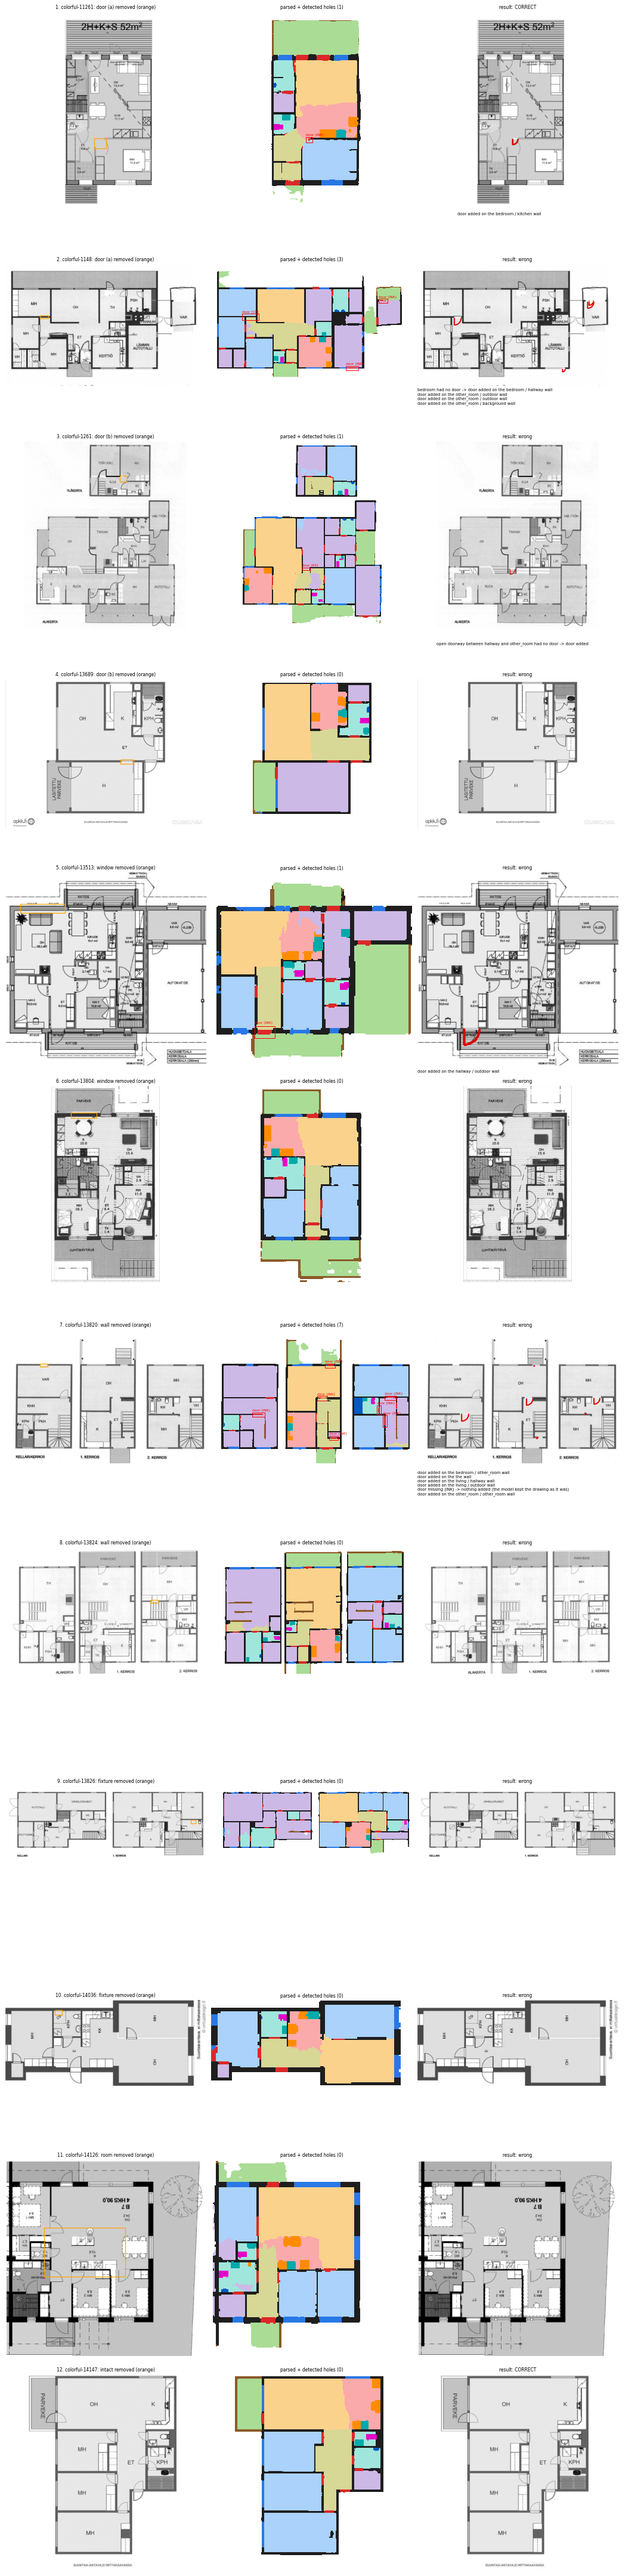
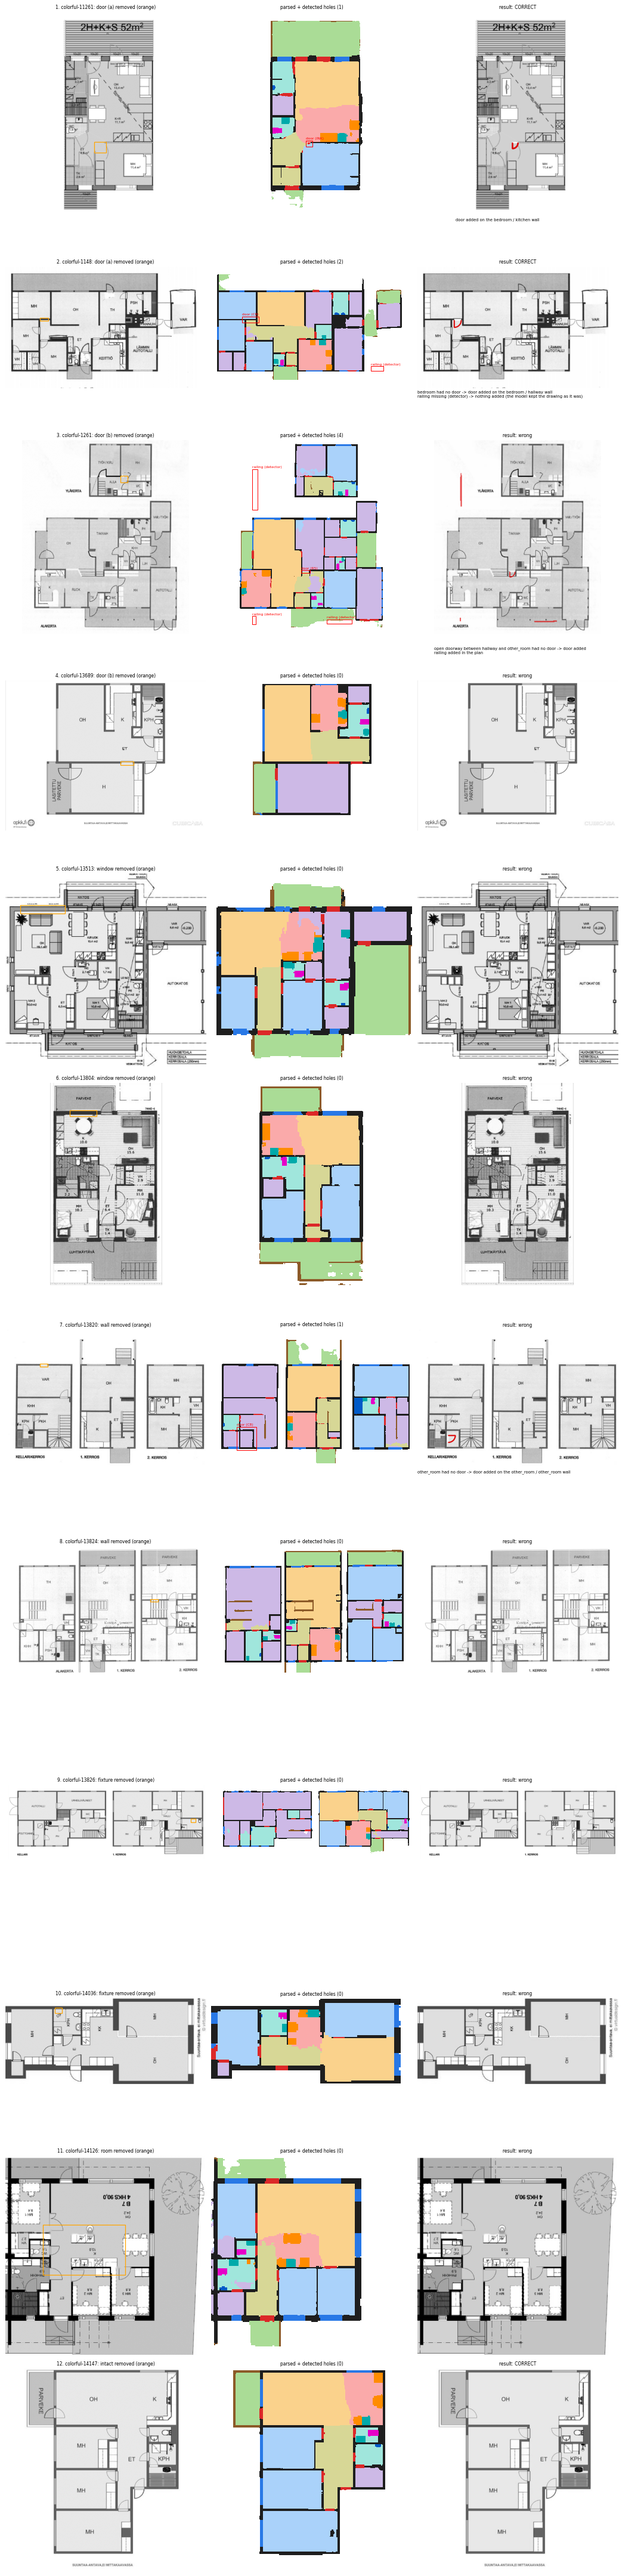
Budget 0.6 CHECK: held-out 15% recall at 0.64 FA, trade-off curve, check set 3/12

diff --git a/outputs/stage2/check_set.md b/outputs/stage2/check_set.md
@@ -1,18 +1,18 @@
-# Check set: 2 / 12 correct (fast mode, CPU)
+# Check set: 3 / 12 correct (fast mode, CPU)
 
 found = a hole overlaps the omission; restored = the expected class was added there; extra = added components elsewhere; correct = restored and no extra (intact: nothing added).
 
 | # | drawing | omission | found | restored | extra | correct | holes | s |
 |---|---|---|---|---|---|---|---|---|
-| 1 | colorful-11261 | door (a) | yes | yes | 0 | **yes** | 1 | 28 |
-| 2 | colorful-1148 | door (a) | yes | yes | 3 | no | 3 | 60 |
-| 3 | colorful-1261 | door (b) | no | no | 1 | no | 1 | 24 |
+| 1 | colorful-11261 | door (a) | yes | yes | 0 | **yes** | 1 | 40 |
+| 2 | colorful-1148 | door (a) | yes | yes | 0 | **yes** | 2 | 61 |
+| 3 | colorful-1261 | door (b) | no | no | 4 | no | 4 | 123 |
 | 4 | colorful-13689 | door (b) | no | no | 0 | no | 0 | 2 |
-| 5 | colorful-13513 | window | no | no | 1 | no | 1 | 19 |
-| 6 | colorful-13804 | window | no | no | 0 | no | 0 | 1 |
-| 7 | colorful-13820 | wall | no | no | 6 | no | 7 | 132 |
-| 8 | colorful-13824 | wall | no | no | 0 | no | 0 | 3 |
-| 9 | colorful-13826 | fixture | no | no | 0 | no | 0 | 4 |
+| 5 | colorful-13513 | window | no | no | 0 | no | 0 | 1 |
+| 6 | colorful-13804 | window | no | no | 0 | no | 0 | 2 |
+| 7 | colorful-13820 | wall | no | no | 1 | no | 1 | 32 |
+| 8 | colorful-13824 | wall | no | no | 0 | no | 0 | 5 |
+| 9 | colorful-13826 | fixture | no | no | 0 | no | 0 | 6 |
 | 10 | colorful-14036 | fixture | no | no | 0 | no | 0 | 1 |
 | 11 | colorful-14126 | room | no | no | 0 | no | 0 | 1 |
 | 12 | colorful-14147 | intact | no | no | 0 | **yes** | 0 | 2 |
@@ -25,24 +25,23 @@ Added (messages):
 
 - door added on the bedroom / kitchen wall
 
-## 2. colorful-1148 (door (a)): automatic verdict wrong
+## 2. colorful-1148 (door (a)): automatic verdict correct
 
-Removed: door (a). Detected: door (C8), door (INK), door (INK). Found yes, restored yes, extra 3.
+Removed: door (a). Detected: door (C8), railing (detector). Found yes, restored yes, extra 0.
 
 Added (messages):
 
 - bedroom had no door -> door added on the bedroom / hallway wall
-- door added on the other_room / outdoor wall
-- door added on the other_room / outdoor wall
-- door added on the other_room / background wall
+- railing missing (detector) -> nothing added (the model kept the drawing as it was)
 
 ## 3. colorful-1261 (door (b)): automatic verdict wrong
 
-Removed: door (b). Detected: door (R5). Found no, restored no, extra 1.
+Removed: door (b). Detected: door (R5), railing (detector), railing (detector), railing (detector). Found no, restored no, extra 4.
 
 Added (messages):
 
 - open doorway between hallway and other_room had no door -> door added
+- railing added in the plan
 
 ## 4. colorful-13689 (door (b)): automatic verdict wrong
 
@@ -54,11 +53,11 @@ Added (messages):
 
 ## 5. colorful-13513 (window): automatic verdict wrong
 
-Removed: window. Detected: door (INK). Found no, restored no, extra 1.
+Removed: window. Detected: nothing. Found no, restored no, extra 0.
 
 Added (messages):
 
-- door added on the hallway / outdoor wall
+- (nothing)
 
 ## 6. colorful-13804 (window): automatic verdict wrong
 
@@ -70,16 +69,11 @@ Added (messages):
 
 ## 7. colorful-13820 (wall): automatic verdict wrong
 
-Removed: wall. Detected: door (INK), door (INK), door (INK), door (INK), door (INK), door (INK), door (INK). Found no, restored no, extra 6.
+Removed: wall. Detected: door (C8). Found no, restored no, extra 1.
 
 Added (messages):
 
-- door added on the bedroom / other_room wall
-- door added on the the wall
-- door added on the living / hallway wall
-- door added on the living / outdoor wall
-- door missing (INK) -> nothing added (the model kept the drawing as it was)
-- door added on the other_room / other_room wall
+- other_room had no door -> door added on the other_room / other_room wall
 
 ## 8. colorful-13824 (wall): automatic verdict wrong
 
@@ -130,21 +124,21 @@ Per hole overlapping the omission: new pixels of the hole's type in the RAW hybr
 | 1 | colorful-11261 | door (a) | door (INK) | 11 (11) | 11 | bedroom: 12, door: 11 | door kept (11 px) on the omitted spot |
 | 2 | colorful-1148 | door (a) | door (C8) | 105 (105) | 39 | door: 105 | door kept (39 px) on the omitted spot |
 
-## My verdicts (detector v2, re-tuned CHECK, ink guard, door clipping; after looking at check_set.png and check_set_holes.png)
+## My verdicts (budget 0.6: detector v2 + C8 + R5 + ink check on R5 pairs; door clipping; sketch prior)
 
 | # | omission | verdict | why |
 |---|---|---|---|
-| 1 | door (a) | correct | the ink check found the door the parser had drawn back without a symbol; a door was drawn at the erased doorway (on the straight wall next to the angled opening) |
-| 2 | door (a) | partly | C8 found the cut-off bedroom; the door is now clipped to the right wall at median length (39 px, was 105 L-shaped); but false ink holes added 3 doors on exterior walls |
-| 3 | door (b) | wrong | R5 fired at another gap and added a door there; the erased doorway was not found |
+| 1 | door (a) | correct | the ink check found the door the parser had drawn back without a symbol; a door drawn at the erased doorway |
+| 2 | door (a) | correct | C8 found the cut-off bedroom; one door of median length on the right wall; no false doors any more (ink check restricted) |
+| 3 | door (b) | wrong | R5 fired at another gap and added a door there; false railing holes, a railing added |
 | 4 | door (b) | wrong | nothing flagged |
-| 5 | window | wrong | not found (the detector is off); a false ink hole added a door on an exterior wall |
+| 5 | window | wrong | nothing flagged |
 | 6 | window | wrong | nothing flagged |
-| 7 | wall | wrong | 7 false ink holes (the guard did not trigger: fewer than half of this drawing's doors lack arcs), 6 doors added |
+| 7 | wall | wrong | the erased wall not found; C8 (now >= 200 px) flagged a small other_room and added a door |
 | 8 | wall | wrong | nothing flagged |
-| 9 | fixture | wrong | not flagged (detector v2 at 0.98 / 160 px proposes nothing here) |
+| 9 | fixture | wrong | nothing flagged |
 | 10 | fixture | wrong | nothing flagged |
 | 11 | room | wrong | nothing flagged |
 | 12 | intact | correct | nothing flagged, nothing added |
 
-**Score: 2 / 12 correct, 1 partly.** Previous run (detector off): 2 / 12, 1 partly. Settings were not changed based on this set.
+**Score: 3 / 12 correct.** Previous run: 2 / 12, 1 partly. Settings were not changed based on this set.

diff --git a/outputs/stage2/check_curve.md b/outputs/stage2/check_curve.md
@@ -1,0 +1,42 @@
+# Held-out trade-off: recall vs false alarms (parser v2B, detector v2, erasure v2)
+
+59 intact + 200 omissions (image_eval's held-out cases). Chosen setting: 0.9 / 20 px detector, C8 >= 200.0, R5, ink < 3.0 (relevant doors). Figure: outputs/stage2/check_curve.png.
+
+## (i) rules + ink
+
+| detector (threshold / min blob) | C8 min area | R5 | ink check | false alarms / intact | mean recall | door (a) | door (b) | window | wall | railing | fixture | room |
+|---|---|---|---|---|---|---|---|---|---|---|---|---|
+| off | 2756 | off | off | 0.00 | 0% | 0% | 0% | 0% | 0% | 0% | 0% | 0% |
+| off | 200 | off | off | 0.15 | 4% | 24% | 0% | 3% | 0% | 0% | 0% | 4% |
+| off | 200 | on | off | 0.17 | 7% | 24% | 0% | 3% | 3% | 0% | 0% | 18% |
+| off | 200 | on | 0.5 (relevant doors) | 0.25 | 8% | 24% | 7% | 3% | 3% | 0% | 0% | 21% |
+| off | 200 | on | 3.0 (relevant doors) | 0.32 | 11% | 28% | 10% | 3% | 7% | 0% | 0% | 29% |
+| off | 200 | on | 3.0 (relevant doors) | 0.32 | 11% | 28% | 10% | 3% | 7% | 0% | 0% | 29% |
+
+## (ii) detector v2 only
+
+| detector (threshold / min blob) | C8 min area | R5 | ink check | false alarms / intact | mean recall | door (a) | door (b) | window | wall | railing | fixture | room |
+|---|---|---|---|---|---|---|---|---|---|---|---|---|
+| 0.98 / 20 px | off | off | off | 0.07 | 1% | 3% | 0% | 3% | 0% | 0% | 3% | 0% |
+| 0.95 / 20 px | off | off | off | 0.20 | 3% | 3% | 0% | 7% | 0% | 0% | 3% | 7% |
+| 0.9 / 20 px | off | off | off | 0.32 | 5% | 3% | 0% | 7% | 0% | 0% | 8% | 14% |
+| 0.8 / 20 px | off | off | off | 0.37 | 5% | 3% | 0% | 7% | 0% | 0% | 8% | 14% |
+| 0.7 / 20 px | off | off | off | 0.49 | 6% | 3% | 0% | 7% | 3% | 0% | 11% | 18% |
+| 0.5 / 20 px | off | off | off | 0.59 | 11% | 7% | 3% | 10% | 7% | 0% | 16% | 36% |
+
+## (iii) everything
+
+| detector (threshold / min blob) | C8 min area | R5 | ink check | false alarms / intact | mean recall | door (a) | door (b) | window | wall | railing | fixture | room |
+|---|---|---|---|---|---|---|---|---|---|---|---|---|
+| 0.98 / 20 px | 200 | on | 3.0 (relevant doors) | 0.39 | 12% | 28% | 10% | 7% | 7% | 0% | 3% | 29% |
+| 0.95 / 20 px | 200 | on | 3.0 (relevant doors) | 0.53 | 13% | 28% | 10% | 10% | 7% | 0% | 3% | 32% |
+| 0.9 / 20 px | 200 | on | 3.0 (relevant doors) | 0.64 | 15% | 28% | 10% | 10% | 7% | 0% | 8% | 39% |
+| 0.8 / 20 px | 200 | on | 3.0 (relevant doors) | 0.69 | 15% | 28% | 10% | 10% | 7% | 0% | 8% | 39% |
+| 0.7 / 20 px | 200 | on | 3.0 (relevant doors) | 0.81 | 15% | 28% | 10% | 10% | 7% | 0% | 11% | 39% |
+| 0.5 / 20 px | 200 | on | 3.0 (relevant doors) | 0.92 | 19% | 31% | 14% | 14% | 10% | 0% | 16% | 46% |
+
+## Chosen point (per type)
+
+| detector (threshold / min blob) | C8 min area | R5 | ink check | false alarms / intact | mean recall | door (a) | door (b) | window | wall | railing | fixture | room |
+|---|---|---|---|---|---|---|---|---|---|---|---|---|
+| 0.9 / 20 px | 200 | on | 3.0 (relevant doors) | 0.64 | 15% | 28% | 10% | 10% | 7% | 0% | 8% | 39% |

diff --git a/outputs/stage2/detection_eval.md b/outputs/stage2/detection_eval.md
@@ -135,3 +135,18 @@ Note: label-level numbers above are on ground-truth label maps; these are on par
 Scope subsets (detector + C8 + R5 + ink (final)): door (a) where the closure cuts a room off: 15 cases, found 33% (33%); door (b) between a bedroom/bathroom and a closed-pair neighbour: 14 cases, found 36% (36%).
 Parser redraws the removed component (mean share of its pixels the parser still labels with the removed class, room = its walls): door (a) 30%, door (b) 80%, window 42%, wall 27%, railing 16%, fixture 4%, room 24%.
 Note: label-level numbers above are on ground-truth label maps; these are on parsed drawings, so parser errors count against detection (and add false alarms).
+
+## Held-out on DRAWINGS: budget 0.6 (detector v2 0.9 / 20 px, C8 >= 200 px, R5, ink < 3.0 on R5 pairs; 2026-10-19)
+
+59 intact drawings + 200 omissions on 100 other held-out drawings (kinds: door (a) 29, door (b) 29, window 29, wall 29, railing 18, fixture 38, room 28). Erasure: src/stage2/data/erasure.py; then the pipeline's PARSE + CHECK (no fill). Found = a proposal overlaps the omission (in brackets: right type).
+
+| method | false alarms / intact drawing | mean recall | door (a) | door (b) | window | wall | railing | fixture | room |
+|---|---|---|---|---|---|---|---|---|---|
+| detector | 0.32 | 5% | 3% (0%) | 0% (0%) | 7% (7%) | 0% (0%) | 0% (0%) | 8% (8%) | 14% (11%) |
+| detector + C8 | 0.47 | 9% | 24% (24%) | 0% (0%) | 10% (7%) | 0% (0%) | 0% (0%) | 8% (8%) | 18% (11%) |
+| detector + C8 + R5 | 0.49 | 11% | 24% (24%) | 0% (0%) | 10% (7%) | 3% (0%) | 0% (0%) | 8% (8%) | 29% (7%) |
+| detector + C8 + R5 + ink (final) | 0.64 | 15% | 28% (28%) | 10% (10%) | 10% (7%) | 7% (0%) | 0% (0%) | 8% (8%) | 39% (7%) |
+
+Scope subsets (detector + C8 + R5 + ink (final)): door (a) where the closure cuts a room off: 15 cases, found 53% (53%); door (b) between a bedroom/bathroom and a closed-pair neighbour: 14 cases, found 21% (21%).
+Parser redraws the removed component (mean share of its pixels the parser still labels with the removed class, room = its walls): door (a) 30%, door (b) 80%, window 42%, wall 27%, railing 16%, fixture 4%, room 24%.
+Note: label-level numbers above are on ground-truth label maps; these are on parsed drawings, so parser errors count against detection (and add false alarms).
